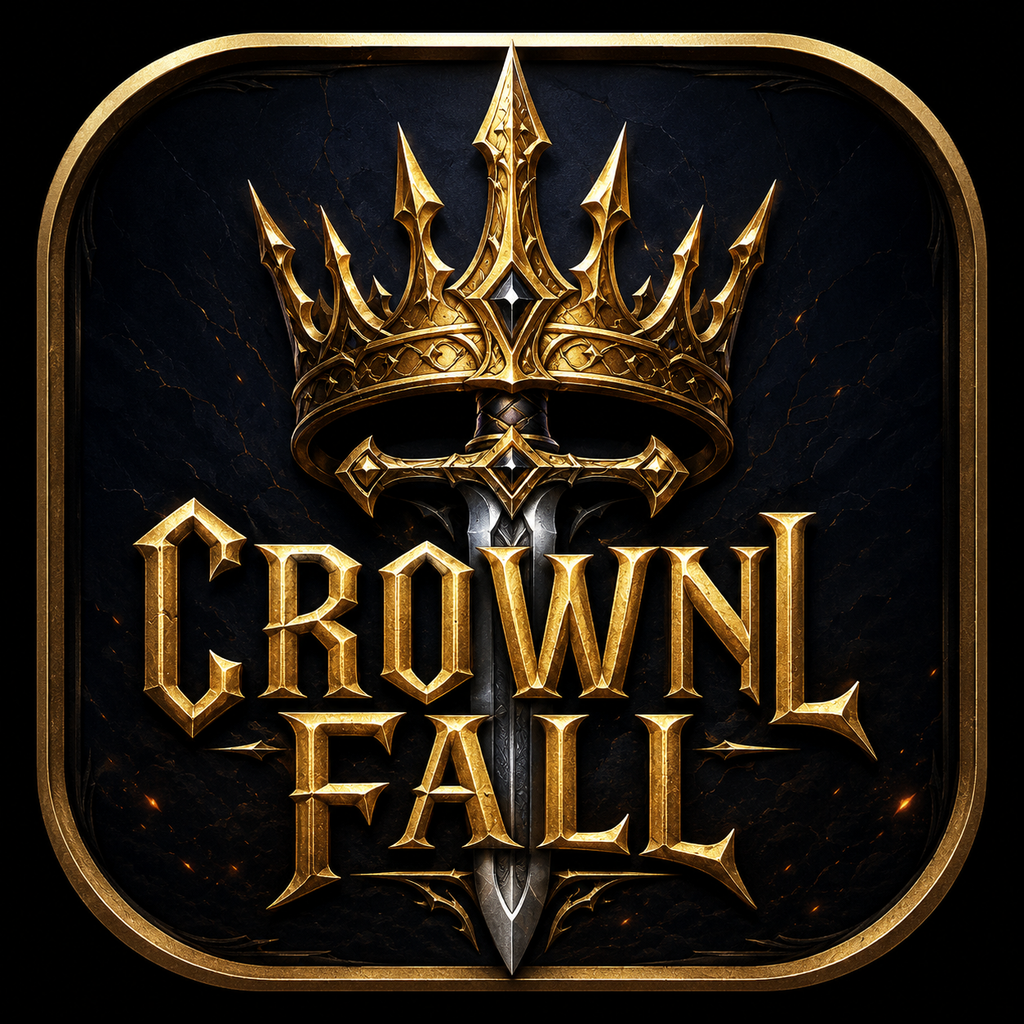
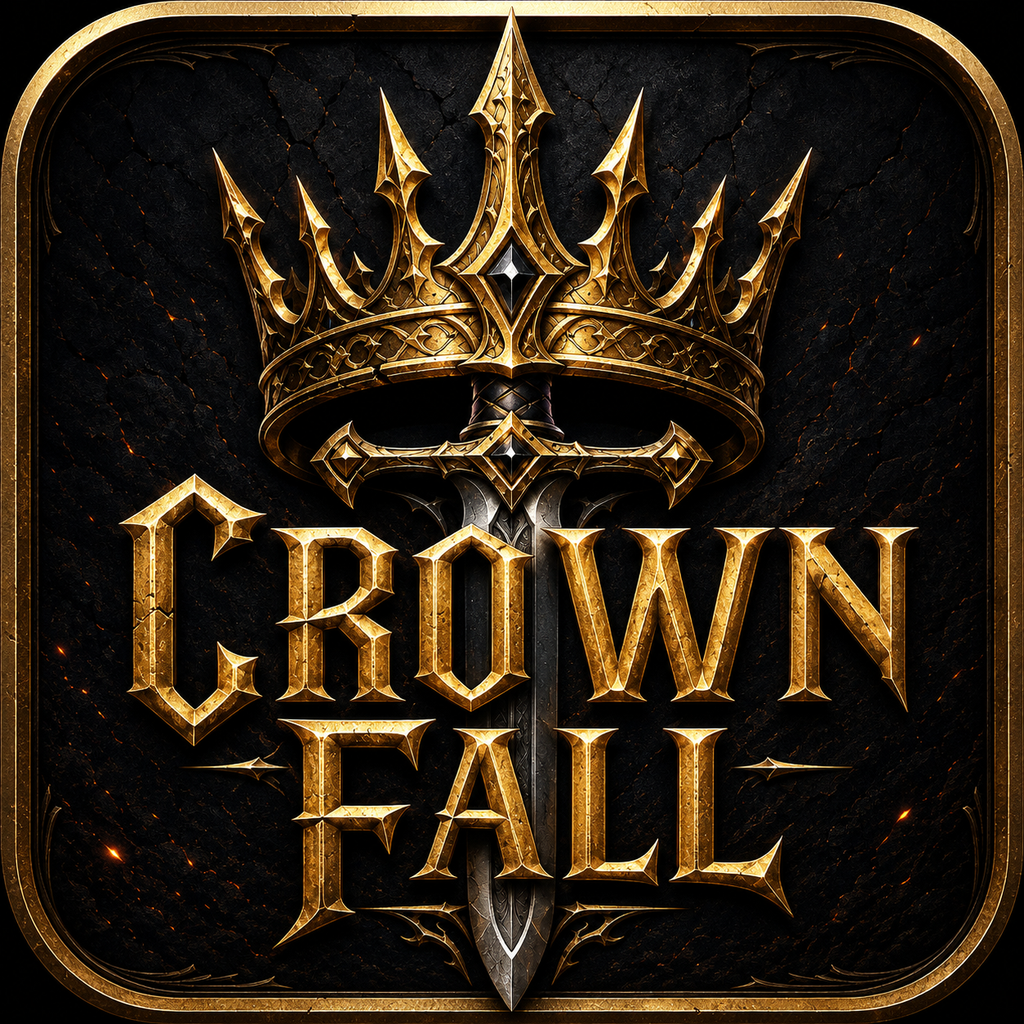
feat(ui): アプリアイコンを CrownFall ロゴに差し替える
Downloads の正式ロゴを icon.png／UI_AppIcon に取り込み、ホーム画面の見た目を揃える。

diff --git a/docs/project/CurrentState.md b/docs/project/CurrentState.md
@@ -4,6 +4,7 @@
 
 ## Last Update
 
+2026-08-17（**アプリアイコン差し替え／統合＋main**: Downloads「CrownFallロゴ」→`UI_AppIcon`／`icon.png`＋iOS AppIcon。要iOS再ビルド／再インストール）
 2026-08-11（**攻略Wiki現行同期／統合＋main**: ボス数値・ノーマル召喚なし・エンシェント1個／40%・ヴァルデン鉄誓・火鷹10%・モーンN・探索Gold。データ再生成。要公開デプロイ確認）
 2026-08-11（**App Store提出用 1.0.0 build3 releaseエクスポート＋Xcode適用**: 実機確認済み・提出GO。要Archive/Upload→Connectで1.0に紐づけ）
 2026-08-11（**App Store向け iOS release エクスポート＋Xcode適用**: `--export-release`・`libgodot.ios.release`・PCK 546MB・ver 0.1.0。次は Archive→TestFlightでデバッグ非表示確認）
